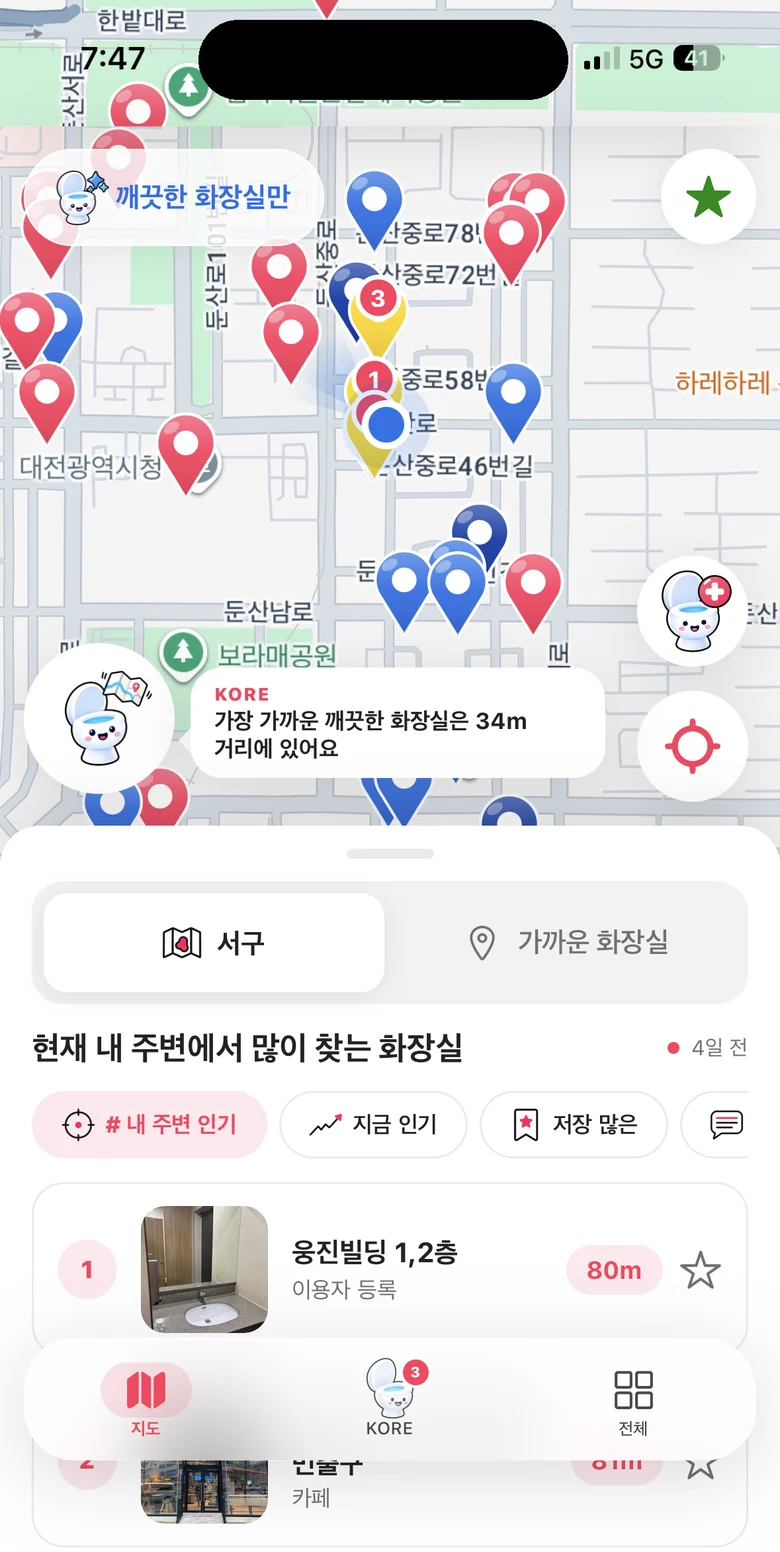
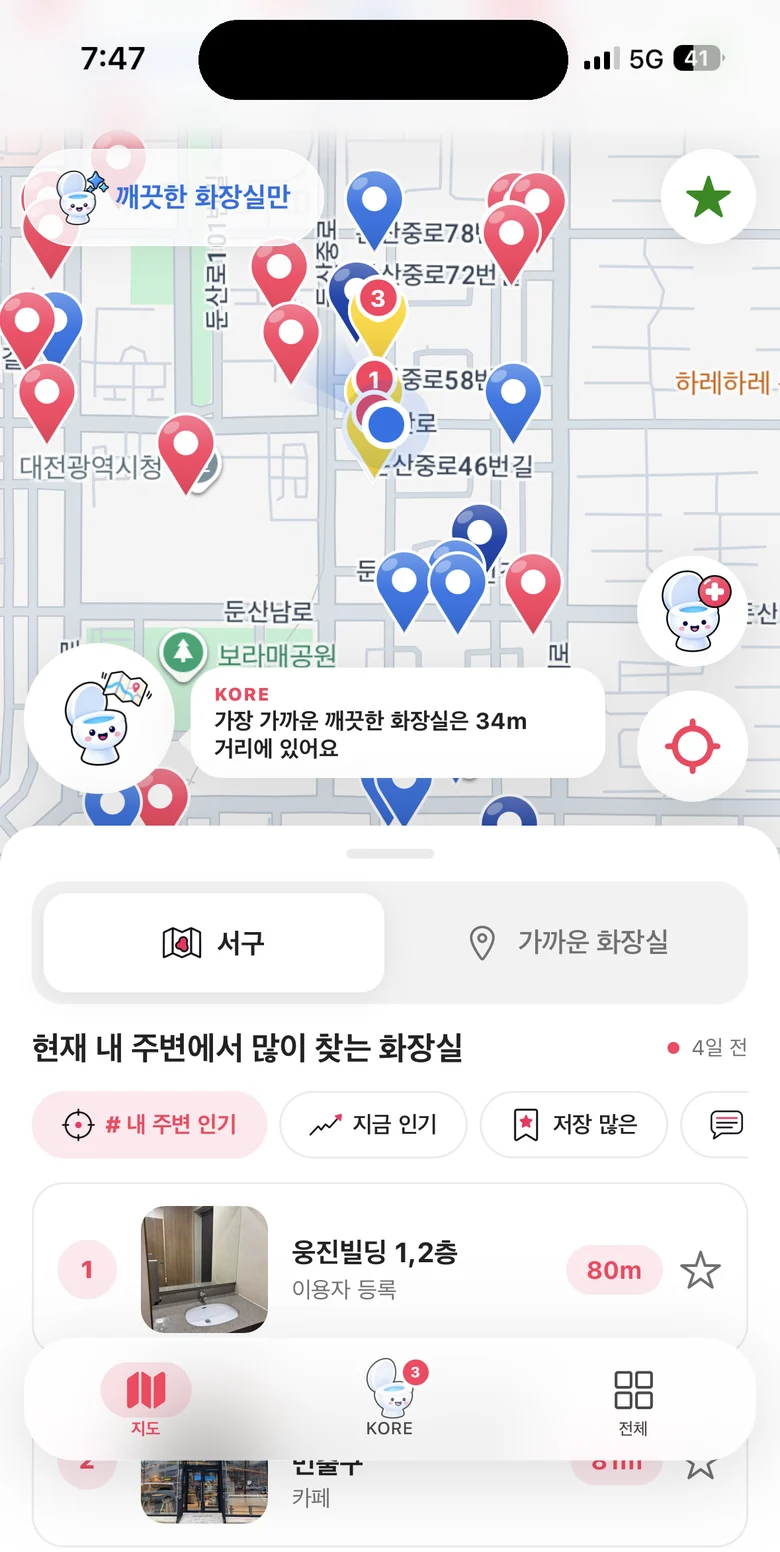
폰 화면: 히어로 휴대폰 아래가 늘어나던 것과 지도 스크린샷 위쪽 끊김 고치기
- 히어로 휴대폰이 좁은 화면에서 히어로 상자 높이만큼 늘어나 화면 아래 검은 턱이 생기던 것을 align-items: flex-start로 막음
- 광고 배너를 잘라낸 자리에서 지도가 끊겨 보이던 것: 그 위 띠를 지도에 이어지는 반투명 상태 표시줄로 다시 그림 (지도·세계·도쿄, 한/영)

Changed region(s): [[0.0, 0.0, 1.0, 0.0928]]

diff --git a/assets/styles.css b/assets/styles.css
@@ -481,6 +481,9 @@ html[lang="en"] .hero h1 { font-size: clamp(36px, 5vw, 60px); }
   position: relative;
   display: flex;
   justify-content: center;
+  /* not stretch: on phones the box is taller than the front phone, and a
+     stretched bezel grows a dark chin under the screen */
+  align-items: flex-start;
   min-height: 560px;
 }
 

diff --git a/tools/screenshots/crop.py b/tools/screenshots/crop.py
@@ -7,7 +7,9 @@ assets/shots/<name>-<locale>.webp at 780x1552 — the size the .device bezel in
 assets/styles.css is drawn for. What it does to each capture:
 
   * cuts the AdMob *test* banner out (dev builds show "Test mode" cards; real
-    users see a real ad there, which a marketing shot should not carry),
+    users see a real ad there, which a marketing shot should not carry); over
+    the map, the strip left above it becomes a frosted status bar, so the map
+    does not jump where the card was,
   * paints the Dynamic Island solid black (the capture tool's icon sits in it),
   * evens every shot to the same height (2346 rows at full size) so phones
     side by side match — by removing a strip of plain floor art, or by adding
@@ -18,12 +20,18 @@ wherever the layout put it. Re-run after replacing a capture, then look at the
 output: a new layout can need a different `fix` entry below.
 """
 from pathlib import Path
-from PIL import Image, ImageDraw
+from PIL import Image, ImageChops, ImageDraw, ImageFilter, ImageOps
 
 WEB = Path(__file__).resolve().parents[2]
 SRC = WEB.parent / 'data' / 'pic,video' / '261023'
 OUT = WEB / 'assets' / 'shots'
 H = 2346  # target height at 1179 wide (780x1552 after resize)
+# Per locale, a capture whose status bar sits on plain white (the nearby
+# list): frost() lifts the clock and icons from it.
+STATUS = {
+    'ko': 'KO/KakaoTalk_20261023_194852089_15.png',
+    'en': 'EN/KakaoTalk_20261023_194852089_07.png',
+}
 
 
 def open_buttons(im):
@@ -74,41 +82,59 @@ def island(im):
     return im
 
 
+def frost(im, seam, locale, fade=56):
+    """Redraw rows [0, seam) as a frosted status bar over the map below.
+
+    The glass is the map just under the seam, mirrored upward, blurred and
+    whitened, so its colours run on into the map; it fades out over `fade`
+    rows. The clock and icons come from a capture of the same phone whose
+    status bar sits on plain white (multiplied in, so they keep their
+    anti-aliasing)."""
+    w = im.width
+    below = im.crop((0, seam, w, 2 * seam + fade))
+    src = Image.new('RGB', (w, below.height + seam))
+    src.paste(ImageOps.flip(below.crop((0, 0, w, seam))), (0, 0))
+    src.paste(below, (0, seam))
+    glass = Image.blend(src.filter(ImageFilter.GaussianBlur(28)),
+                        Image.new('RGB', src.size, 'white'), 0.72)
+    status = Image.open(SRC / STATUS[locale]).convert('RGB').crop((0, 0, w, seam))
+    im.paste(ImageChops.multiply(glass.crop((0, 0, w, seam)), status), (0, 0))
+    ramp = Image.linear_gradient('L').resize((w, fade)).point(lambda v: 255 - v)
+    under = im.crop((0, seam, w, seam + fade))
+    im.paste(Image.composite(glass.crop((0, seam, w, seam + fade)), under, ramp), (0, seam))
+    return island(im)
+
+
 def process(src, name, fix=None, pad=False):
     im = island(Image.open(SRC / src).convert('RGB'))
-    bands = []
+    bands, seam = [], None
     for b0, b1 in open_buttons(im):
         if b0 < 500:   # banner card over the map, under the status bar:
-            # the whole white card the ad sits in: walk out from the button
-            # while one of the next few rows is at least a third pure white (its
-            # 1px border rows are not, hence the look-ahead; the map is <10%)
+            # the bottom of the white card the ad sits in: walk down from the
+            # button while one of the next few rows is at least a third pure
+            # white (its 1px border rows are not, hence the look-ahead; the
+            # map is <10%)
             def white(y):
                 px = [im.getpixel((x, y)) for x in range(60, 1120, 8)]
                 return sum(1 for p in px if sum(p) >= 750) / len(px)
-            top, end = b0, b1
-            while top > 120 and max(white(y) for y in range(top - 6, top)) >= 0.3:
-                top -= 1
+            end = b1
             while end < 520 and max(white(y) for y in range(end, end + 6)) >= 0.3:
                 end += 1
-            top, end = top - 2, end + 2
-            # The card is taller than the 210 rows every shot loses; make up
-            # the difference by stretching the status-bar strip above it a
-            # few percent, so the map below keeps its place.
-            extra = (end - top) - 210
-            if extra < 0:      # a shorter card: take the map strip above it too
-                top = end - 210
-            elif extra > 0:
-                strip = im.crop((0, 0, im.width, top)).resize((im.width, top + extra), Image.LANCZOS)
-                rest = im.crop((0, top, im.width, im.height))
-                im = Image.new('RGB', (im.width, im.height + extra))
-                im.paste(strip, (0, 0))
-                im.paste(rest, (0, top + extra))
-                top, end = top + extra, end + extra
-            bands.append((top, end))
+            end += 2
+            # Every shot loses 210 rows here. Whatever is left above them (the
+            # status bar over a strip of map, plus the top of a taller card)
+            # is redrawn as a frosted bar after the cut — spliced as it is
+            # onto the map below the card, it reads as a tear in the screen.
+            seam = end - 210
+            if seam > 215:     # the white status bar in STATUS ends there
+                raise SystemExit(f'{name}: banner ends at {end}, too low for frost()')
+            bands.append((seam, end))
         else:          # card inside a sheet: "광고 없애기" header + banner + gap
             bands.append((b0 - 152, b1 + 80))
     bands += fix or []
     im = cut(im, bands)
+    if seam is not None:
+        im = frost(im, seam, name.rsplit('-', 1)[1])
     if im.height < H:
         if not pad:
             raise SystemExit(f'{name}: {im.height} rows after cuts, needs pad=True')
